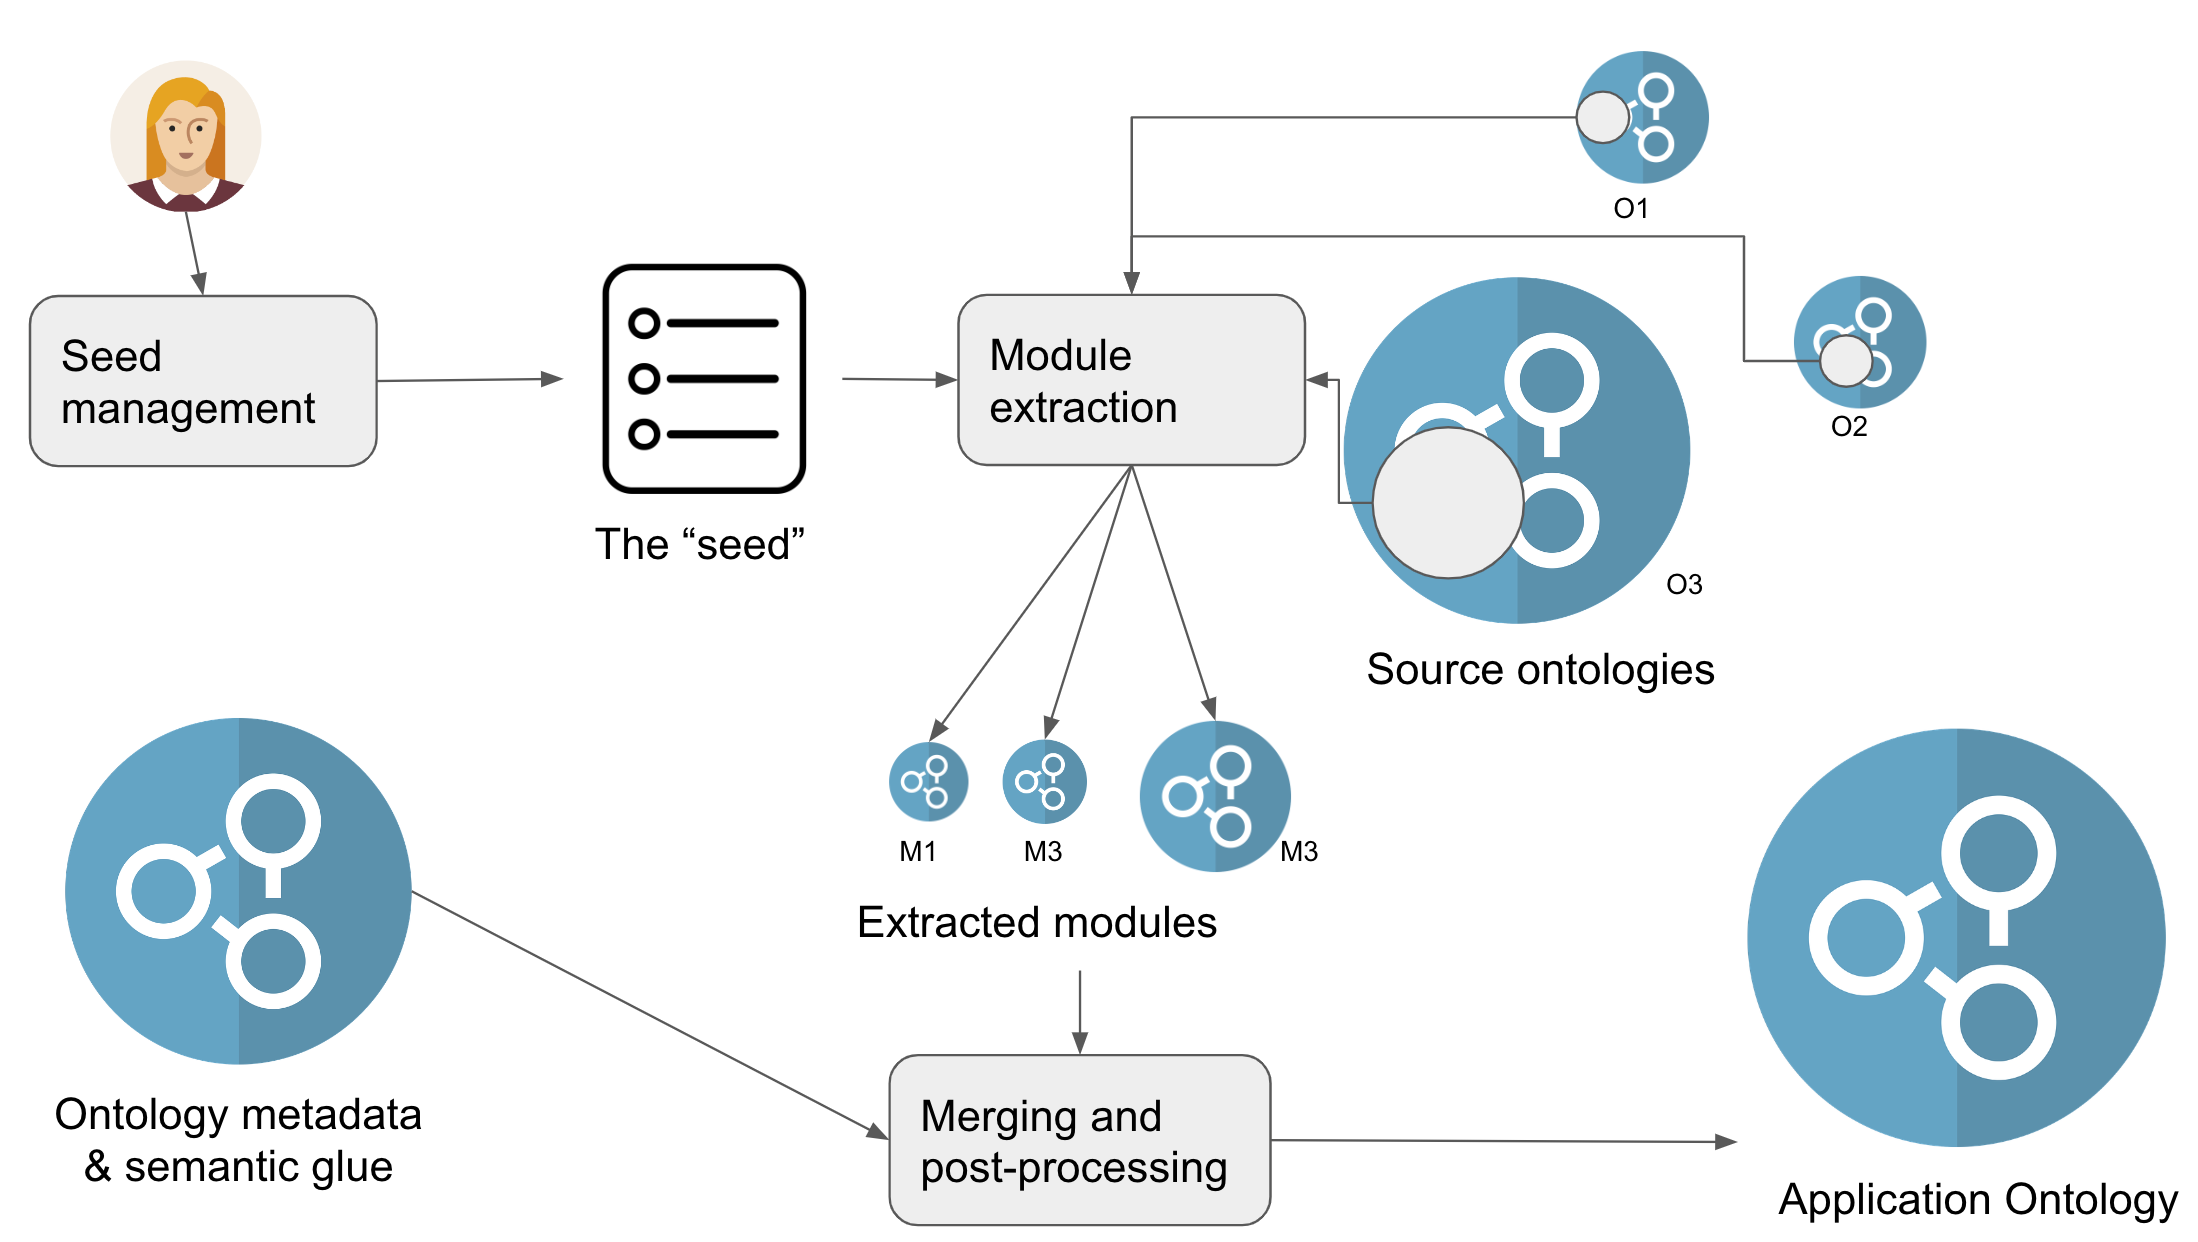
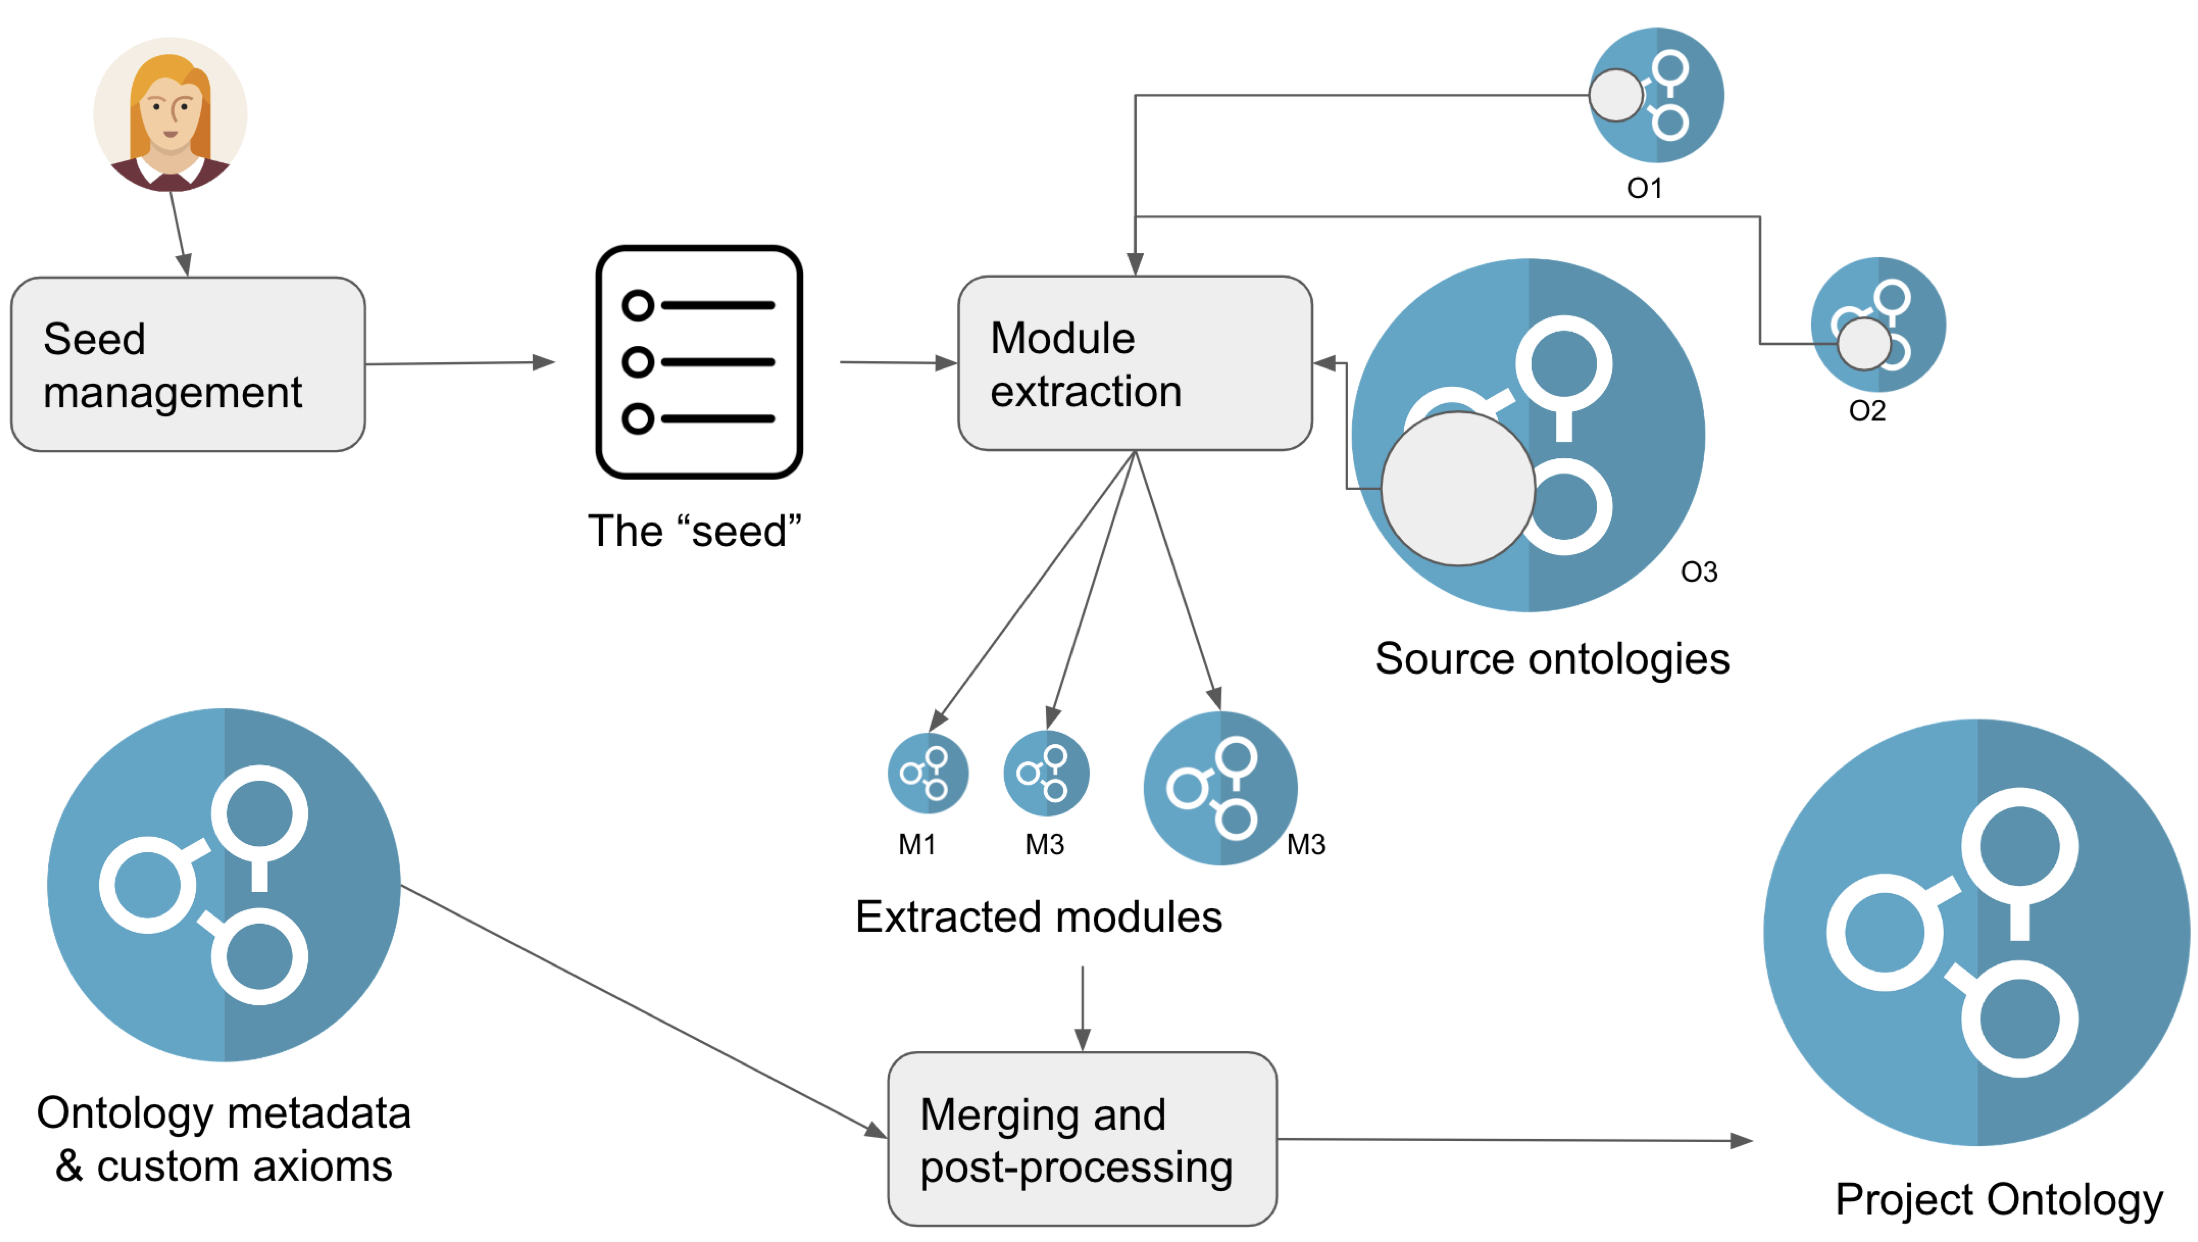
Update overview image

diff --git a/docs/tutorial/project-ontology-development.md b/docs/tutorial/project-ontology-development.md
@@ -53,13 +53,13 @@ There are a few reasons for developing project ontologies. Here are two that are
 Any application ontology will be concerned with at least 3 ingredients:
 
 - The **seed**. This is a the _set of terms you wish to import into your application ontology_. The seed can take many forms: 
-  - a simple list of terms, e.g. `MONDO:123, MONDO:231`
-  - a list of terms including additional _relational selectors_, e.g. `MONDO:123, incl. all children`
-  - a list of terms including a _logical selector_, `MONDO:123, incl. all terms that are in some way logically related to MONDO:123`
-  - There are probably more, but these are the main ones we work with in the context of biomedical application ontologies.
-  - A general selector, like "all classes" or simply "everything".
+    - a simple list of terms, e.g. `MONDO:123, MONDO:231`
+    - a list of terms including additional _relational selectors_, e.g. `MONDO:123, incl. all children`
+    - a list of terms including a _logical selector_, `MONDO:123, incl. all terms that are in some way logically related to MONDO:123`
+    - a general selector, like "all classes" or simply "everything".
+    - There are probably more, but these are the main ones we work with in the context of biomedical application ontologies.
 - The **source ontologies**, often referred to as "mirrors" (at least by those working with ODK). These are the full ontologies which we want to use in our application ontology. For example, we may want to include anatomical entities from the [Uberon ontology](https://github.com/obophenotype/uberon) into our application ontology. These are usually downloaded from the internet into the application ontology workspace, and then processed by the application ontology extraction workflow (see later).
-- Additional **ontology metadata** and **semantic glue**, i.e. axioms used to connect entities (classes) across your source ontologies to fulfil a use case. 
+- Additional **ontology metadata** and **semantic glue**, such as axioms used to connect entities (classes) across your source ontologies to fulfil a use case, but also your regular ontology metadata (title, comments, etc).
 
 <a id="phases"></a>
 
